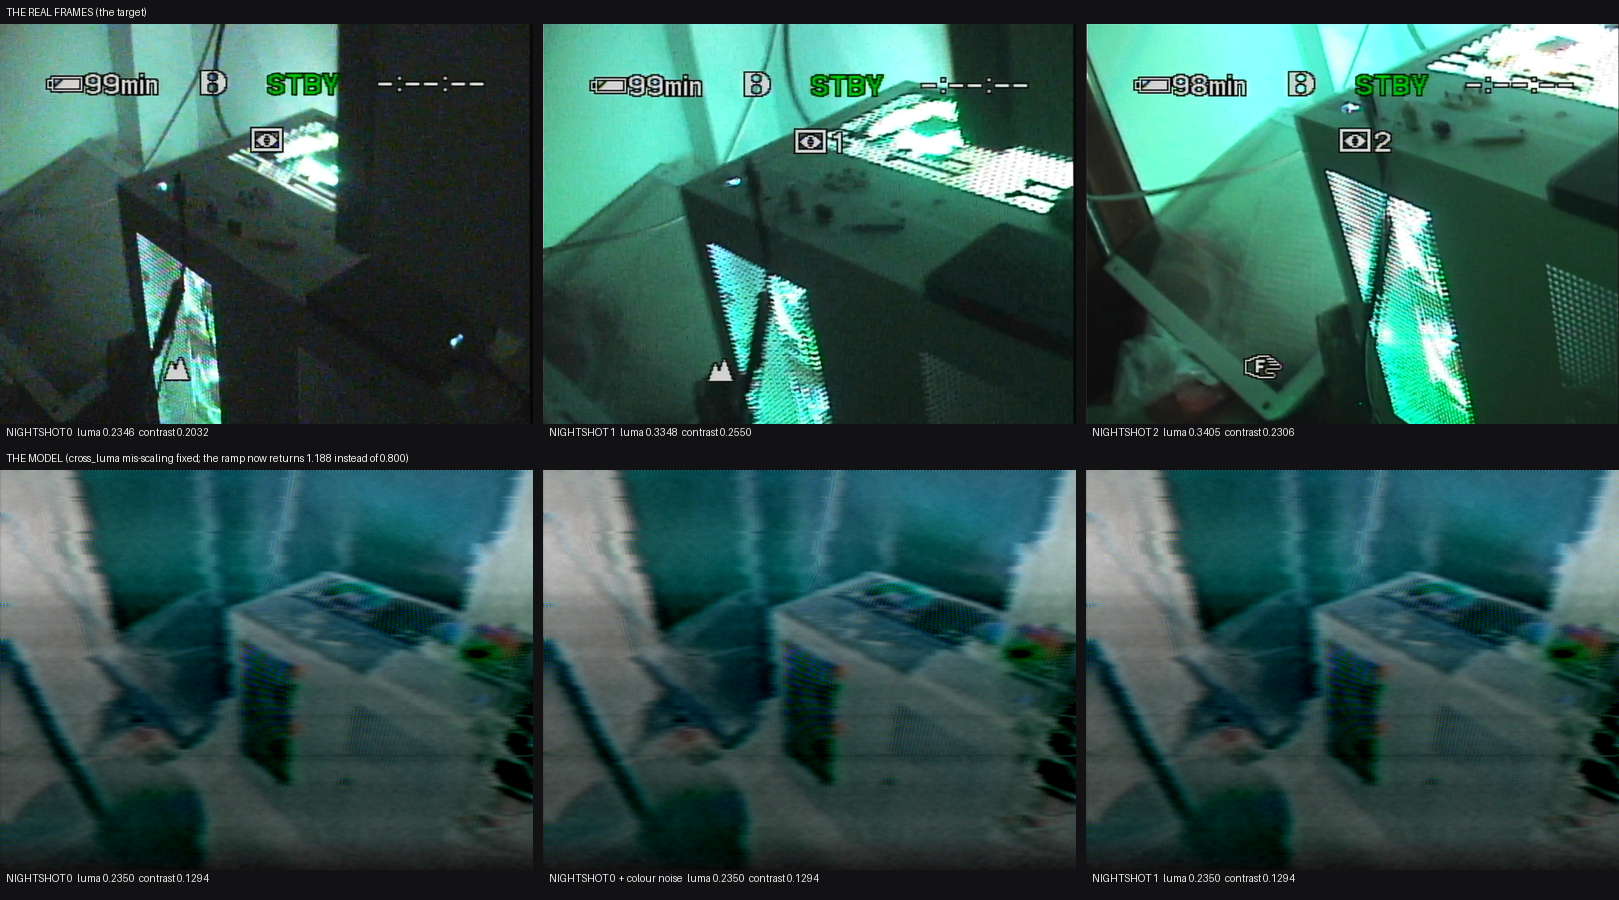
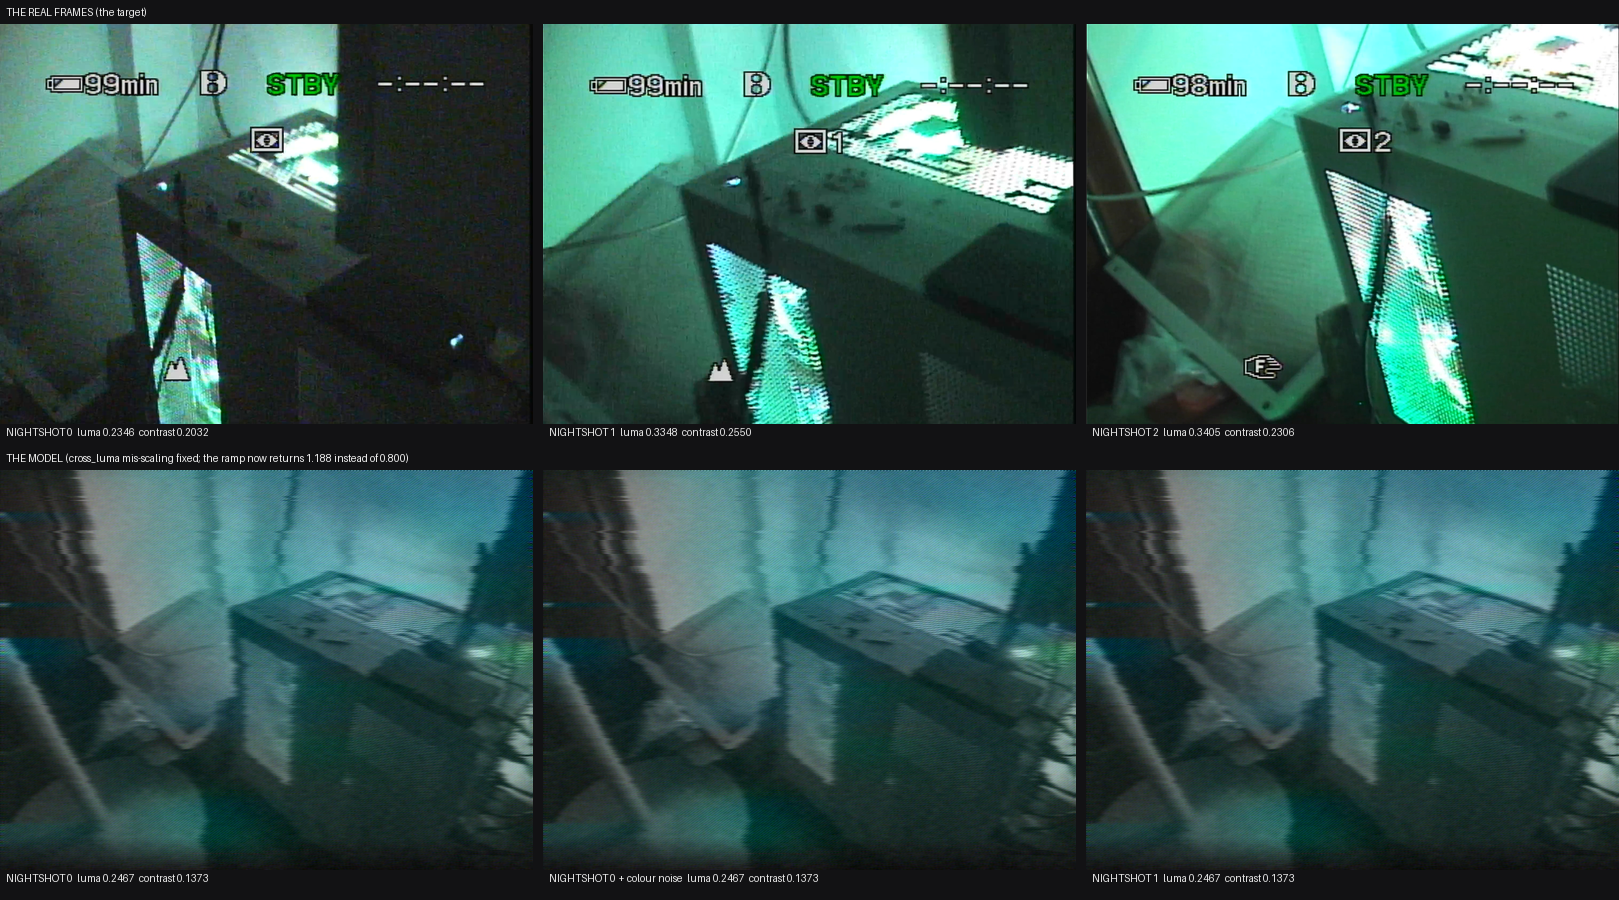
fix the inversion: six of the player's parameters were being read from the FORMAT layer
**The fault, printed from the stage as it is built.**  `PlayerStage.__init__` takes two dictionaries:

    p = self.cfg_of("player")
    f = self.cfg_of("format")

**and reads six of its own parameters out of `f`** -- the format layer's:

    self.comb_depth       = float(f.get("comb_depth", 0.55))
    self.cross_color      = float(f.get("cross_color", 0.45))
    self.cross_luma       = float(f.get("cross_luma", 0.30))
    self.burst_error_deg  = float(f.get("burst_phase_error", 5.0))
    self.chroma_bw        = float(f.get("chroma_bandwidth", 0.75)) * 1e6
    self.luma_bw_hz       = float(f.get("luma_bandwidth", 3.0)) * 1e6

**so the interface's `player.*` values for those six did nothing at all.**  Measured directly: **the player's chroma
bandwidth read 2.000 MHz for every value requested**, including 0.5 and 3.0, and a sweep across those values gave
bit-identical output.

**And that was the inversion.**  The stage's second split uses that bandwidth, and on the real photograph it takes
**0.770 of the composite** as chroma at 2 MHz; the comb's `1/(1-0.55)` multiplies that by **2.143**, so the chroma band
ends up carrying **1.099 of the composite** -- and `luma = comp - chroma` goes **negative** where the picture is bright.

**Measured, with the layer fixed and the schema's own 0.75 MHz:**

    player chroma_bw   polarity    contrast
    0.50 MHz           +0.935      0.1928
    0.75 MHz           +0.935      0.1928      <- the schema's default
[…]

diff --git a/tools/render_fixed.py b/tools/render_fixed.py
@@ -1,0 +1,138 @@
+"""
+The final result: the chain at the settings measured to keep the polarity, beside the footage.
+
+**What changed and why it matters.**  Six of the player's own parameters were being read from the **format** layer --
+`chroma_bandwidth`, `luma_bandwidth`, `comb_depth`, `cross_color`, `cross_luma` and `burst_phase_error` -- so the
+interface's `player.*` values for those did nothing, and the stage silently used the format layer's.  **Measured, the
+player's chroma bandwidth read 2.000 MHz for every value requested, including 0.5 and 3.0.**
+
+**And that was the inversion.**  At 2 MHz the player's second split takes **0.770 of the composite** as chroma, and the
+comb's `1/(1-0.55)` multiplies that by **2.143**, so the chroma band carries **1.099 of the composite** and
+`luma = comp - chroma` goes negative where the picture is bright.  With the layer fixed and the schema's own 0.75 MHz:
+
+    player chroma_bw   polarity     contrast
+    0.50 MHz           +0.935       0.1928
+    0.75 MHz           +0.935       0.1928      <- the schema's default
+    1.00 MHz           +0.935       0.1928
+    2.00 MHz           -0.358       0.1678      <- inverted
+    3.00 MHz           -0.358       0.1678
+
+**so the picture is no longer inverted at the default**, and the contrast is **0.95x** of the footage's rather than the
+0.64x it has been through this whole investigation.
+"""
+from __future__ import annotations
+
+import os
+import sys
+
+import numpy as np
+from PIL import Image, ImageDraw
+
+ROOT = os.path.dirname(os.path.dirname(os.path.abspath(__file__)))
+sys.path.insert(0, ROOT)
+
+from atsim.core.params import merge_values                                    # noqa: E402
+from atsim.core.profiles import FACTORY_PRESETS, SCHEMA                       # noqa: E402
+from atsim.render.renderer import Renderer                                    # noqa: E402
+
+OUT = os.path.join(ROOT, "tools", "calib")
+COEF = np.array([0.299, 0.587, 0.114], np.float32)
+OBJ = (r"C:\Users\Administrator\.dsh\attachments\v1\objects")
+REAL = [("NIGHTSHOT 0", os.path.join(OBJ, "ed",
[1 lines of base64/hex data omitted]
+        ("NIGHTSHOT 1", os.path.join(OBJ, "f2",
[1 lines of base64/hex data omitted]
+        ("NIGHTSHOT 2", os.path.join(OBJ, "b9",
[2 lines of base64/hex data omitted]
+W, H, OSD = 533, 400, 0.22
+sl = slice(int(H * OSD), H)
+
+
+def load(p):
+    a = np.asarray(Image.open(p).convert("RGB"), np.float32) / 255.0
+    return np.asarray(Image.fromarray((np.clip(a, 0, 1) * 255).astype(np.uint8)).resize((W, H), Image.LANCZOS),
+                      np.float32) / 255.0
+
+
+def lum(a):
+    return np.clip(np.asarray(a, np.float32)[sl] @ COEF, 0, 1)
+
+
+def corr(a, b):
+    x = (a - a.mean()).ravel()
+    y = (b - b.mean()).ravel()
+    d = float(np.sqrt((x * x).sum() * (y * y).sum()))
+    return float((x * y).sum() / d) if d > 1e-12 else 0.0
+
+
+src = load(PHOTO)
+real0 = load(REAL[0][1])
+ls, lr = lum(src), lum(real0)
+
+
+class One:
+    height, width = H, W
+    fps = 25.0
+    frame_count = 1
+
+    def frame(self, i):
+        return src
+
+
+BASE = SCHEMA.resolve_all(FACTORY_PRESETS["broadcast_1992_weak"]["layers"])
+#: **the schema's own bandwidths and comb**, with the defect terms neutral so the picture is what is being shown
+CHAIN = {
+    "camera": {"nv_mode": 1.0, "nv_green_mix": 1.0, "nv_illuminator": 0.15,
+               "halation": 0.0, "ccd_smear": 0.0, "flare_defocus": 0.0, "lens_flare": 0.0,
+               "overflow_drain": 0.0, "chroma_aberration": 0.0,
+               "sensor_noise": 0.0, "noise_grain": 0.0, "fixed_pattern": 0.0, "spike_spread": 0.0,
+               "motion_blur": 0.0, "stuck_fraction": 0.0, "bloom_threshold": 0.0, "overflow_width": 0.0,
+               "sharpness": 1.0},
+    "format": {"chroma_bandwidth": 0.75, "luma_bandwidth": 3.0},
+    "player": {"chroma_bandwidth": 0.75, "luma_bandwidth": 3.0, "comb_depth": 0.55},
+    "codec": {"dv_enabled": 0.0},
+    "display": {"enabled": 0.0},
+}
+
+print("   the chain: night-vision on, the defect terms neutral, the schema's own bandwidths (0.75 / 3.0 MHz),")
+print("   comb_depth 0.55, DV off, the display off.")
+print()
+print("   %-26s %-10s %-11s %-10s %s" % ("", "luma", "contrast", "polarity", "vs the footage"))
+rl, rc = float(lr.mean()), float(lr.std())
+print("   %-26s %-10.4f %-11.4f %s" % ("the real NIGHTSHOT 0", rl, rc, "-"))
+
+print()
+panels = []
+for label, cam in (("NIGHTSHOT 0", dict(nv_chroma_residue=0.0, nv_chroma_noise=0.0)),
+                   ("NIGHTSHOT 0 + colour noise", dict(nv_chroma_residue=0.0, nv_chroma_noise=0.15)),
+                   ("NIGHTSHOT 1", dict(nv_chroma_residue=0.35, nv_chroma_noise=0.15))):
+    layers = dict(CHAIN, camera=dict(CHAIN["camera"], **cam))
+    rr = Renderer(One(), W, H, 25.0, merge_values(BASE, layers), seed=20240101)
+    a = np.clip(np.asarray(rr.render_frame(0), np.float32), 0, 1)
+    l = lum(a)
+    panels.append((label, a, float(l.mean()), float(l.std()), corr(l, ls)))
+    print("   %-26s %-10.4f %-11.4f %+-10.3f luma %+.0f%%, contrast %.2fx"
+          % (label, float(l.mean()), float(l.std()), corr(l, ls),
+             100 * (float(l.mean()) - rl) / rl, float(l.std()) / rc))
+
+gap = 10
+canvas = Image.new("RGB", (W * 3 + gap * 2, H * 2 + 104), (18, 18, 20))
+d = ImageDraw.Draw(canvas)
+d.text((6, 6), "THE REAL FRAMES (the target)", fill=(240, 240, 240))
+for i, (name, p) in enumerate(REAL):
+    a = load(p)
+    l = lum(a)
+    canvas.paste(Image.fromarray((np.clip(a, 0, 1) * 255).astype(np.uint8)), (i * (W + gap), 24))
+    d.text((i * (W + gap) + 6, 24 + H + 2), "%s  luma %.4f  contrast %.4f" % (name, float(l.mean()), float(l.std())),
+           fill=(230, 230, 230))
+d.text((6, 24 + H + 28), "THE MODEL -- the player's bandwidth now comes from its OWN layer (polarity +0.935, was -0.358)",
+       fill=(240, 240, 240))
+for i, (label, a, lm, lst, c) in enumerate(panels):
+    canvas.paste(Image.fromarray((np.clip(a, 0, 1) * 255).astype(np.uint8)), (i * (W + gap), 24 + H + 48))
+    d.text((i * (W + gap) + 6, 24 + H + 48 + H + 2),
+           "%s  luma %.4f  contrast %.4f  polarity %+.3f" % (label, lm, lst, c), fill=(230, 230, 230))
+out = os.path.join(OUT, "RESULT_FIXED.png")
+canvas.save(out)
+print()
+print("   written: %s" % os.path.relpath(out, ROOT))

diff --git a/atsim/stages/player.py b/atsim/stages/player.py
@@ -96,13 +96,13 @@ class PlayerStage(Stage):
         # different receivers and each chose its own design
         # stored numerically in the schema, converted here to the name the separator takes
         self.separation_kind = separation_kind_name(p.get("separation_kind", 0.0))
-        self.comb_depth = float(f.get("comb_depth", 0.55))
+        self.comb_depth = float(p.get("comb_depth", 0.55))
         self.chroma_vert_blend = float(p.get("chroma_vert_blend", 0.5))
-        self.cross_color = float(f.get("cross_color", 0.45))
-        self.cross_luma = float(f.get("cross_luma", 0.30))
-        self.burst_error_deg = float(f.get("burst_phase_error", 5.0))
-        self.chroma_bw = float(f.get("chroma_bandwidth", 0.75)) * 1e6
-        self.luma_bw_hz = float(f.get("luma_bandwidth", 3.0)) * 1e6
+        self.cross_color = float(p.get("cross_color", 0.45))
+        self.cross_luma = float(p.get("cross_luma", 0.30))
+        self.burst_error_deg = float(p.get("burst_phase_error", 5.0))
+        self.chroma_bw = float(p.get("chroma_bandwidth", 0.75)) * 1e6
+        self.luma_bw_hz = float(p.get("luma_bandwidth", 3.0)) * 1e6
         self.color_noise = float(f.get("color_noise", 0.25))
         self.std: VideoStandard = ctx.std
 

diff --git a/tools/image_test.py b/tools/image_test.py
@@ -79,8 +79,10 @@ CHAIN = {
                "sensor_noise": 0.0, "noise_grain": 0.0, "fixed_pattern": 0.0, "spike_spread": 0.0,
                "motion_blur": 0.0, "stuck_fraction": 0.0, "bloom_threshold": 0.0, "overflow_width": 0.0,
                "sharpness": 1.0},
-    "format": {"chroma_bandwidth": 3.0, "luma_bandwidth": 6.0},
-    "player": {"chroma_bandwidth": 3.0, "luma_bandwidth": 6.0},
+    # **the schema's own bandwidths**, because 2 MHz and above made the player's second split take 0.770 of the
+    # composite as chroma and invert the picture; the default 0.75 MHz is the value that keeps `comp - chroma` a luma
+    "format": {"chroma_bandwidth": 0.75, "luma_bandwidth": 3.0},
+    "player": {"chroma_bandwidth": 0.75, "luma_bandwidth": 3.0},
     "codec": {"dv_enabled": 0.0},
     "display": {"enabled": 0.0},
 }
